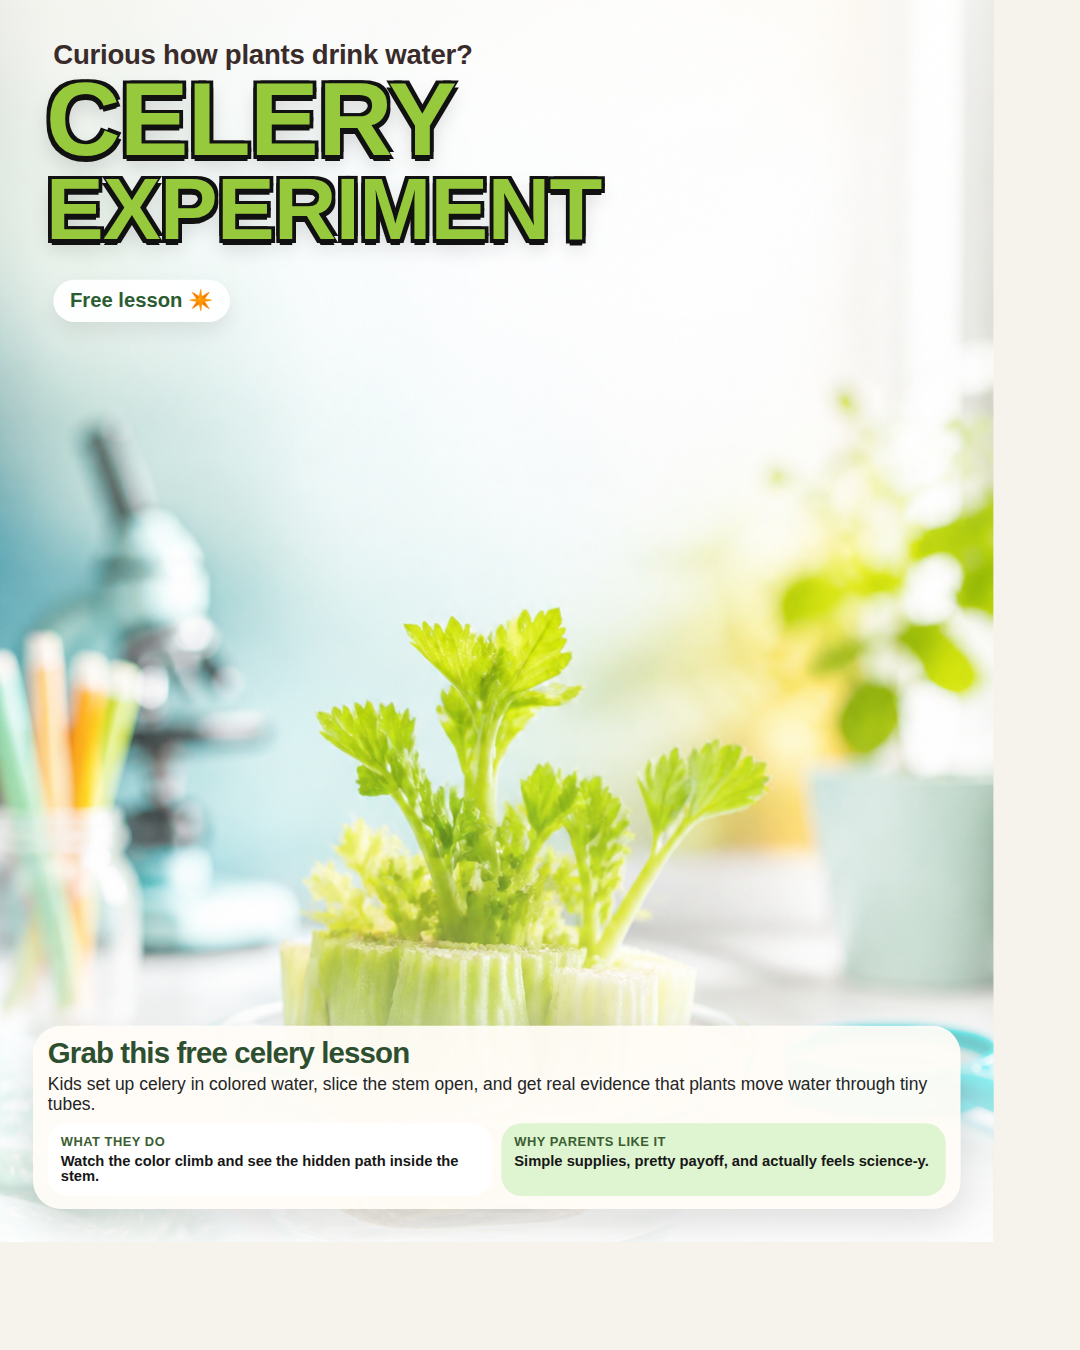
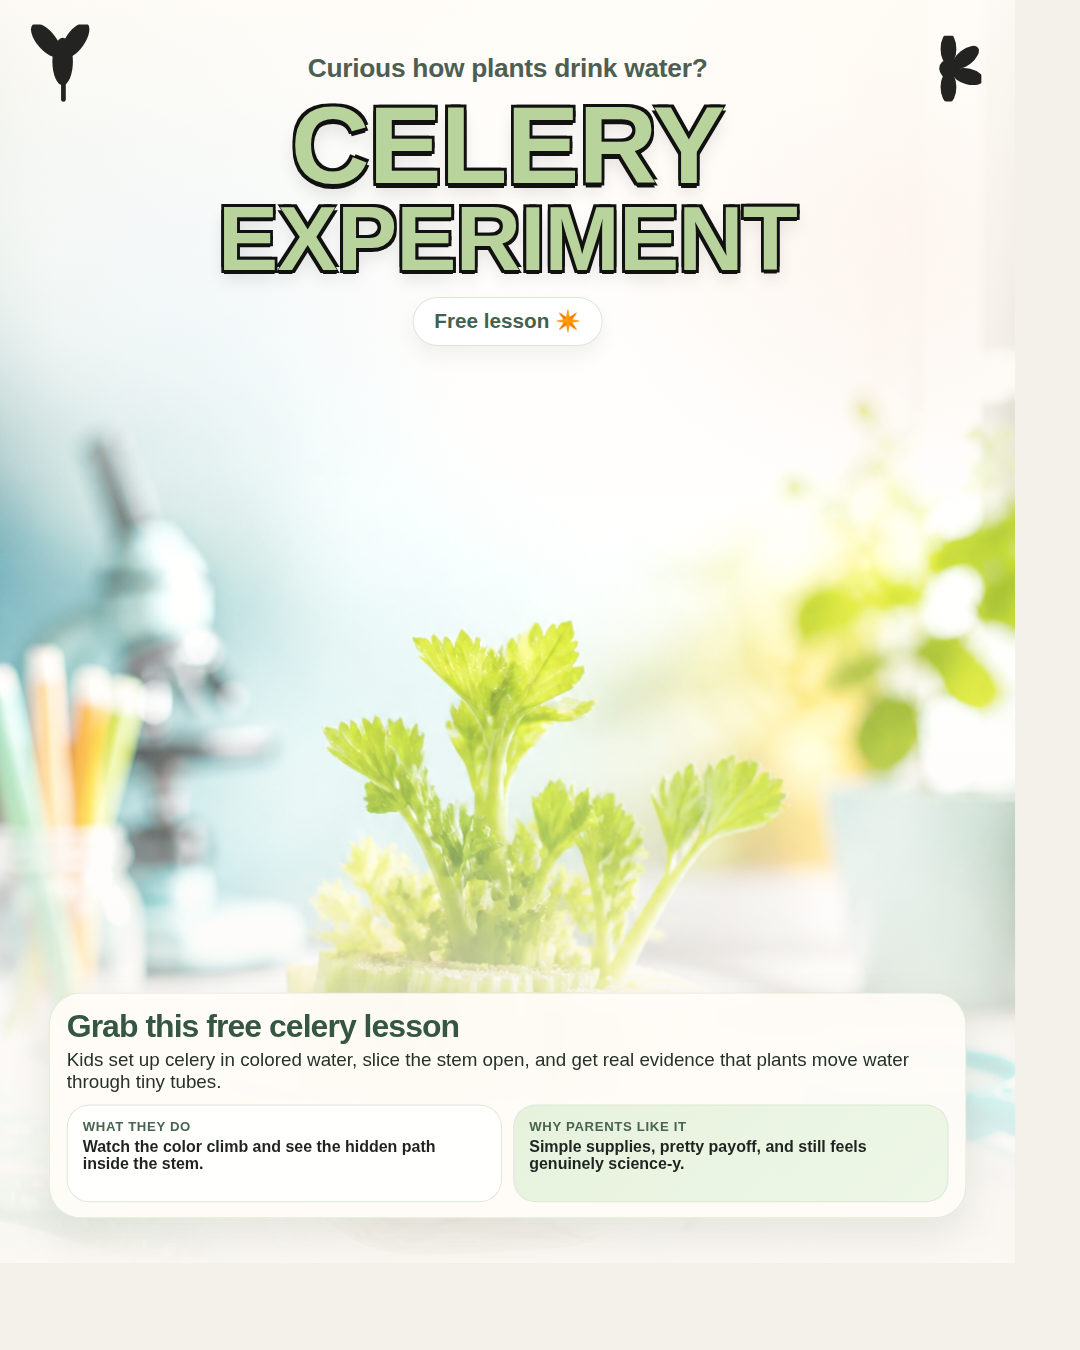
Soften celery teaser to match LLC branding

Changed region(s): [[0.0, 0.2178, 0.9472, 0.9022], [0.0306, 0.0, 0.7333, 0.2489], [0.8556, 0.0311, 0.9167, 0.0933]]

diff --git a/social/2026-05-17-summer-social-posts/posts/08-curious-about-weather-clues-free-lesson.html b/social/2026-05-17-summer-social-posts/posts/08-curious-about-weather-clues-free-lesson.html
@@ -6,10 +6,14 @@
   <title>Celery Experiment Free Lesson</title>
   <style>
     :root {
-      --green: #97c93d;
-      --dark: #111111;
-      --cream: rgba(255, 252, 246, 0.94);
-      --white: #ffffff;
+      --sage: #b8d39b;
+      --soft-sage: #e7f2dd;
+      --sky: #e8f3fb;
+      --peach: #fbe9de;
+      --cream: rgba(255, 252, 247, 0.92);
+      --ink: #1f2321;
+      --muted: #536257;
+      --white: #fffefb;
     }
     * { box-sizing: border-box; }
     html, body {
@@ -17,16 +21,16 @@
       width: 1080px;
       height: 1350px;
       overflow: hidden;
-      font-family: "Avenir Next", "Trebuchet MS", Arial, sans-serif;
-      background: #f6f3ec;
+      font-family: "Avenir Next", "Helvetica Neue", Arial, sans-serif;
+      background: #f4f1eb;
     }
     .poster {
       position: relative;
       width: 1080px;
       height: 1350px;
       overflow: hidden;
-      background: #f6f3ec;
-      transform: scale(0.92);
+      background: linear-gradient(180deg, #fbf8f3 0%, #f3efe8 100%);
+      transform: scale(0.94);
       transform-origin: top left;
     }
     .hero {
@@ -36,114 +40,135 @@
       height: 100%;
       object-fit: cover;
       display: block;
+      filter: saturate(0.88) brightness(1.03);
     }
     .fade {
       position: absolute;
       inset: 0;
       background:
-        linear-gradient(180deg, rgba(255,255,255,0.68) 0%, rgba(255,255,255,0.24) 26%, rgba(255,255,255,0) 46%),
-        linear-gradient(0deg, rgba(255,255,255,0.92) 0%, rgba(255,255,255,0.16) 26%, rgba(255,255,255,0) 50%);
+        linear-gradient(180deg, rgba(255,252,247,0.92) 0%, rgba(255,252,247,0.48) 22%, rgba(255,252,247,0.12) 42%, rgba(255,252,247,0.04) 58%),
+        linear-gradient(0deg, rgba(251,248,243,0.98) 0%, rgba(251,248,243,0.78) 16%, rgba(251,248,243,0.28) 34%, rgba(251,248,243,0.02) 54%),
+        radial-gradient(circle at 16% 18%, rgba(232,243,251,0.92) 0%, rgba(232,243,251,0) 25%),
+        radial-gradient(circle at 88% 16%, rgba(251,233,222,0.78) 0%, rgba(251,233,222,0) 22%);
     }
-    .subtitle {
+    .doodle {
       position: absolute;
-      top: 44px;
-      left: 58px;
-      right: 58px;
-      font-size: 30px;
-      line-height: 1.05;
-      color: #3a2b2b;
-      font-weight: 800;
+      width: 84px;
+      height: 84px;
+      color: #111;
+      opacity: 0.92;
+    }
+    .doodle svg { width: 100%; height: 100%; display: block; }
+    .doodle.left { top: 26px; left: 28px; }
+    .doodle.right { top: 38px; right: 36px; width: 70px; height: 70px; }
+
+    .eyebrow {
+      position: absolute;
+      top: 58px;
+      left: 86px;
+      right: 86px;
+      text-align: center;
+      font-size: 28px;
+      line-height: 1.1;
+      color: #4e5e52;
+      font-weight: 700;
       letter-spacing: -0.01em;
     }
     .title {
       position: absolute;
-      top: 82px;
-      left: 50px;
-      right: 48px;
-      color: var(--green);
+      top: 104px;
+      left: 62px;
+      right: 62px;
+      text-align: center;
+      color: var(--sage);
       font-weight: 900;
       text-transform: uppercase;
       line-height: 0.88;
-      letter-spacing: -0.045em;
+      letter-spacing: -0.05em;
       text-shadow:
-        -4px -4px 0 var(--dark),
-         4px -4px 0 var(--dark),
-        -4px  4px 0 var(--dark),
-         4px  4px 0 var(--dark),
-         0px  6px 0 var(--dark),
-         0px 10px 22px rgba(0,0,0,0.18);
+        -3px -3px 0 #111,
+         3px -3px 0 #111,
+        -3px  3px 0 #111,
+         3px  3px 0 #111,
+         0px  5px 0 #111,
+         0px 10px 18px rgba(0,0,0,0.12);
     }
-    .title .line1 { display: block; font-size: 112px; }
-    .title .line2 { display: block; font-size: 94px; margin-top: 6px; }
+    .title .line1 { display: block; font-size: 116px; }
+    .title .line2 { display: block; font-size: 96px; margin-top: 6px; }
 
-    .badge {
+    .save-pill {
       position: absolute;
-      top: 304px;
-      left: 58px;
-      display: inline-block;
-      background: rgba(255,255,255,0.92);
-      color: #2b5c31;
+      top: 316px;
+      left: 50%;
+      transform: translateX(-50%);
+      background: rgba(255,255,255,0.84);
+      border: 1px solid rgba(188, 210, 169, 0.55);
+      color: #42624e;
       border-radius: 999px;
-      padding: 10px 18px;
+      padding: 12px 22px;
       font-size: 22px;
       font-weight: 800;
-      box-shadow: 0 10px 22px rgba(0,0,0,0.08);
+      box-shadow: 0 10px 24px rgba(0,0,0,0.06);
+      white-space: nowrap;
     }
 
     .bottom-card {
       position: absolute;
-      left: 36px;
-      right: 36px;
-      bottom: 36px;
+      left: 52px;
+      right: 52px;
+      bottom: 54px;
       background: var(--cream);
-      border-radius: 30px;
-      padding: 14px 16px 14px;
-      box-shadow: 0 16px 40px rgba(0,0,0,0.12);
-      display: grid;
-      gap: 10px;
-      align-items: stretch;
+      border: 1.5px solid rgba(221, 232, 214, 0.9);
+      border-radius: 34px;
+      padding: 18px 18px 16px;
+      box-shadow: 0 18px 42px rgba(86, 101, 82, 0.12);
+      backdrop-filter: blur(6px);
     }
-    .blurb h2 {
+    .bottom-card h2 {
       margin: 0 0 8px;
-      font-size: 32px;
+      font-size: 34px;
       line-height: 0.96;
-      color: #2d4f2f;
+      color: #355640;
       letter-spacing: -0.03em;
     }
-    .blurb p {
-      margin: 0;
-      font-size: 19px;
-      line-height: 1.14;
-      color: #252525;
+    .bottom-card .lede {
+      margin: 0 0 12px;
+      font-size: 20px;
+      line-height: 1.18;
+      color: #263128;
       font-weight: 500;
+      max-width: 950px;
     }
-    .cta-row {
+    .info-row {
       display: grid;
       grid-template-columns: 1fr 1fr;
-      gap: 10px;
+      gap: 12px;
     }
-    .pill, .cta {
-      border-radius: 22px;
-      padding: 12px 14px;
-      background: rgba(255,255,255,0.96);
+    .info-box {
+      border-radius: 24px;
+      padding: 14px 16px;
+      background: rgba(255,255,255,0.88);
+      border: 1px solid rgba(219, 229, 214, 0.95);
+      min-height: 104px;
     }
-    .pill strong, .cta strong {
+    .info-box.alt {
+      background: linear-gradient(135deg, var(--soft-sage), #eef7e7);
+    }
+    .info-box strong {
       display: block;
-      margin-bottom: 4px;
+      margin-bottom: 5px;
+      color: #486551;
       font-size: 14px;
-      color: #3a5e32;
       text-transform: uppercase;
-      letter-spacing: 0.04em;
+      letter-spacing: 0.05em;
+      font-weight: 900;
     }
-    .pill span, .cta span {
+    .info-box span {
       display: block;
-      font-size: 16px;
+      color: var(--ink);
+      font-size: 17px;
       line-height: 1.1;
-      color: #171717;
       font-weight: 700;
-    }
-    .cta {
-      background: #dff4d0;
     }
   </style>
 </head>
@@ -152,26 +177,46 @@
     <img class="hero" src="../images/celery-free-lesson-hero.png" alt="A bright celery base regrowing in a clear bowl of water." />
     <div class="fade"></div>
 
-    <div class="subtitle">Curious how plants drink water?</div>
+    <div class="doodle left">
+      <svg viewBox="0 0 100 100" aria-hidden="true">
+        <g fill="currentColor">
+          <ellipse cx="25" cy="20" rx="12" ry="26" transform="rotate(-40 25 20)"/>
+          <ellipse cx="62" cy="20" rx="12" ry="26" transform="rotate(35 62 20)"/>
+          <ellipse cx="46" cy="47" rx="13" ry="30"/>
+          <rect x="44" y="40" width="6" height="58" rx="3"/>
+        </g>
+      </svg>
+    </div>
+    <div class="doodle right">
+      <svg viewBox="0 0 100 100" aria-hidden="true">
+        <g fill="currentColor">
+          <ellipse cx="50" cy="20" rx="12" ry="24"/>
+          <ellipse cx="76" cy="33" rx="12" ry="24" transform="rotate(52 76 33)"/>
+          <ellipse cx="80" cy="62" rx="12" ry="24" transform="rotate(104 80 62)"/>
+          <ellipse cx="50" cy="78" rx="12" ry="24" transform="rotate(180 50 78)"/>
+          <circle cx="50" cy="50" r="14"/>
+        </g>
+      </svg>
+    </div>
+
+    <div class="eyebrow">Curious how plants drink water?</div>
     <div class="title">
       <span class="line1">Celery</span>
       <span class="line2">Experiment</span>
     </div>
-    <div class="badge">Free lesson ✴️</div>
+    <div class="save-pill">Free lesson ✴️</div>
 
     <div class="bottom-card">
-      <div class="blurb">
-        <h2>Grab this free celery lesson</h2>
-        <p>Kids set up celery in colored water, slice the stem open, and get real evidence that plants move water through tiny tubes.</p>
-      </div>
-      <div class="cta-row">
-        <div class="pill">
+      <h2>Grab this free celery lesson</h2>
+      <p class="lede">Kids set up celery in colored water, slice the stem open, and get real evidence that plants move water through tiny tubes.</p>
+      <div class="info-row">
+        <div class="info-box">
           <strong>What they do</strong>
           <span>Watch the color climb and see the hidden path inside the stem.</span>
         </div>
-        <div class="cta">
+        <div class="info-box alt">
           <strong>Why parents like it</strong>
-          <span>Simple supplies, pretty payoff, and actually feels science-y.</span>
+          <span>Simple supplies, pretty payoff, and still feels genuinely science-y.</span>
         </div>
       </div>
     </div>